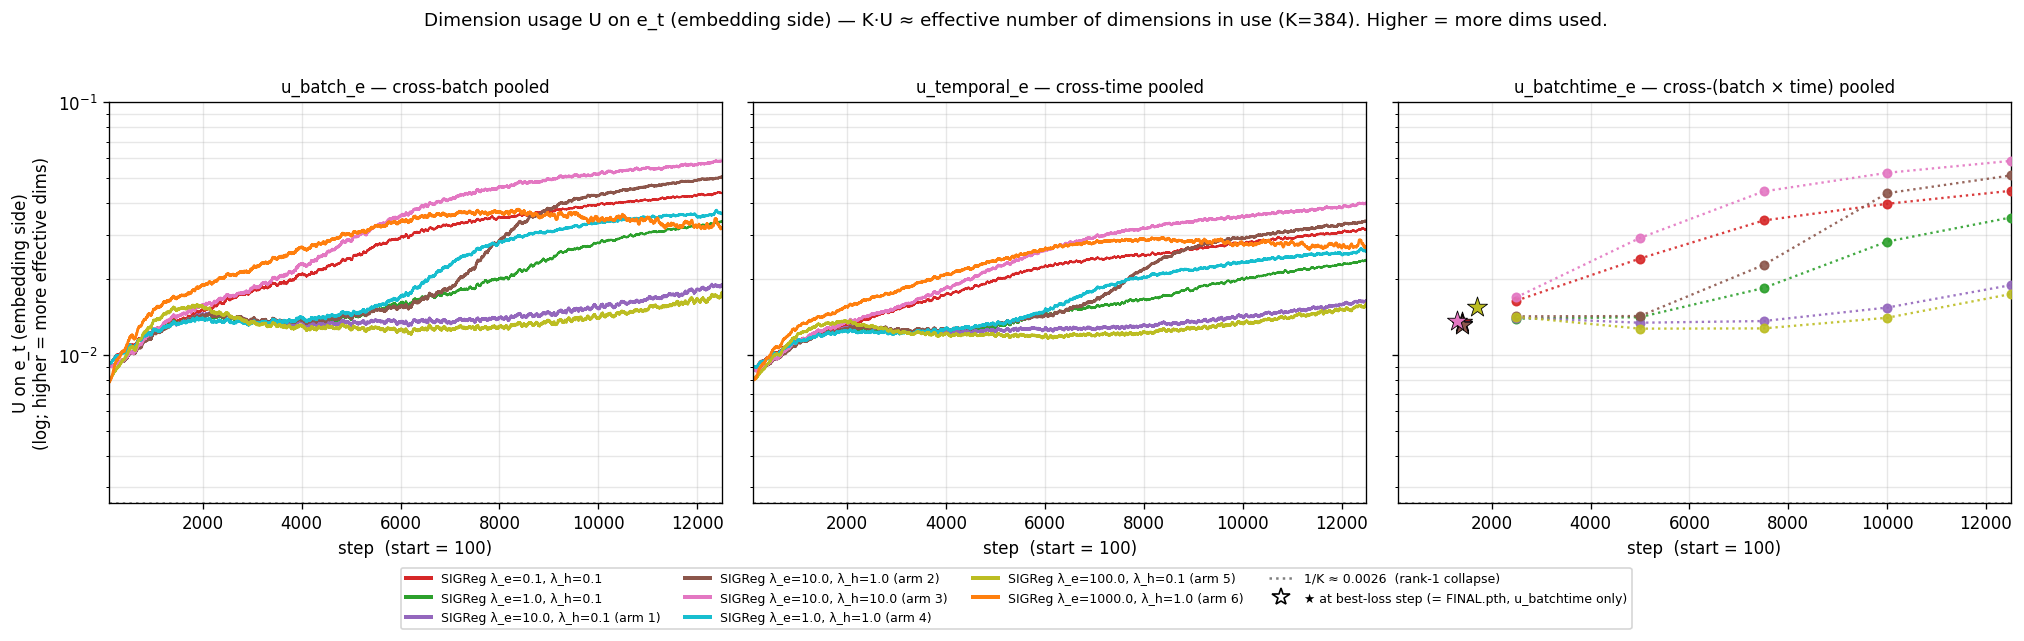
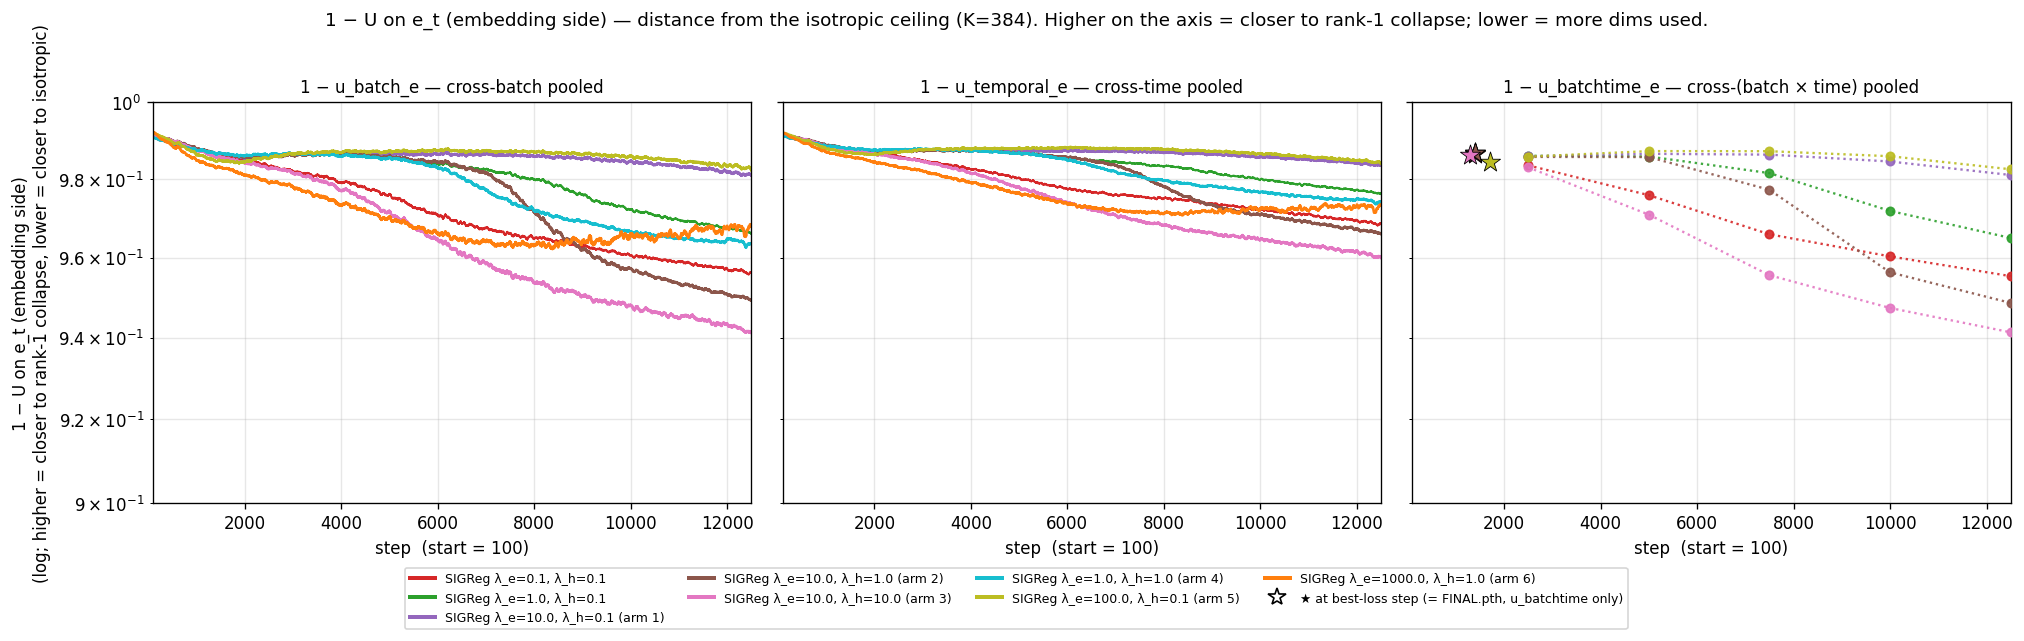
report(#363): dim_usage — plot (1 − U) on log y (all 6 panels)
y-axis now shows distance from the isotropic ceiling. HIGH on the axis =
closer to rank-1 collapse; LOW = closer to isotropic. Log scale reveals
late-training differences that saturate under linear U.

- build_plots.py: 1 − U for u_batch/u_temporal (in-training) and
  u_batchtime (retro), including ● checkpoint markers and ★ at best-loss
  step; drop the 1/K floor line (off the active range); ylim → e_t
  [0.9, 1.0], h_t [0.05, 1.0]; y-label, panel titles, and suptitle
  updated.
- sigreg_lambda_sweep.md: captions name (1 − U) and its inverted
  direction; §Vocabulary U entry notes the 1 − U log-y presentation in
  §Sphere coverage.

diff --git a/reports/2026-06-24_sigreg_lambda_sweep/scripts/build_plots.py b/reports/2026-06-24_sigreg_lambda_sweep/scripts/build_plots.py
@@ -352,20 +352,24 @@ def plot_dim_usage(arm_runs: Path, sigreg_runs: Path, sigreg10_runs: Path,
                    traj_csv: Path | None, out: Path, latent: str):
     """One figure per latent — 1 row × 3 cols, one panel per pooling axis
     (u_batch, u_temporal, u_batchtime). 8 trajectories per panel (6 sweep arms
-    + 2 prior B=512 anchors). U = participation-ratio fraction in [1/K, 1]
-    with K=384: U=1 ⇔ isotropic / all K dims used, U=1/K ⇔ rank-1 collapse
-    (one effective dim). Effective dims ≈ K · U.
+    + 2 prior B=512 anchors). Plotted as (1 − U) on a log y-axis: U saturates
+    near 1 (isotropic ceiling, hit by h_t) and near 1/K (rank-1 floor, hit by
+    e_t); plotting the complement on log reveals late-training differences
+    that the linear-U view compresses. Direction: HIGH on the plot = closer
+    to rank-1 collapse (BAD), LOW = closer to isotropic (GOOD, all K dims
+    used) — inverted from the U convention.
 
     `latent`: "e" (embedding side, `e_t`, suffix `_e`) or "h" (encoder side,
-    `h_t`, no suffix). y-axis: e_t ∈ [1/K, 0.1] (log); h_t ∈ [0.05, 1] (log).
-    u_batch / u_temporal panels: in-training per-step CSV (50-step rolling mean,
-    PLOT_START_STEP cuts the warm-up). u_batchtime panel: per-checkpoint
-    retroactive trajectory (dotted + ● every 2 500 steps) + ★ at the actual
-    best-loss step (= FINAL.pth). Arms 4 and 6 are absent from the u_batchtime
-    panel because they were trained after the trajectory snapshot."""
+    `h_t`, no suffix). y-axis: e_t (1 − U) ∈ [0.9, 1.0] (log); h_t (1 − U) ∈
+    [0.05, 1.0] (log). u_batch / u_temporal panels: in-training per-step CSV
+    (50-step rolling mean on U before mapping to 1 − U, PLOT_START_STEP cuts
+    the warm-up). u_batchtime panel: per-checkpoint retroactive trajectory
+    (dotted + ● every 2 500 steps) + ★ at the actual best-loss step
+    (= FINAL.pth). Arms 4 and 6 are absent from the u_batchtime panel because
+    they were trained after the trajectory snapshot."""
     K = 384
     if latent == "e":
-        suffix, ylim = "_e", (1.0 / K, 0.1)
+        suffix, ylim = "_e", (0.9, 1.0)
         latent_long = "e_t (embedding side)"
     elif latent == "h":
         suffix, ylim = "", (0.05, 1.0)
@@ -379,9 +383,9 @@ def plot_dim_usage(arm_runs: Path, sigreg_runs: Path, sigreg10_runs: Path,
         "sigreg10_enc3": sigreg10_runs / f"bb_{BASE_TAG}_emb10_losses.csv",
     }
     panels = [
-        ("u_batch",     f"u_batch{suffix} — cross-batch pooled"),
-        ("u_temporal",  f"u_temporal{suffix} — cross-time pooled"),
-        ("u_batchtime", f"u_batchtime{suffix} — cross-(batch × time) pooled"),
+        ("u_batch",     f"1 − u_batch{suffix} — cross-batch pooled"),
+        ("u_temporal",  f"1 − u_temporal{suffix} — cross-time pooled"),
+        ("u_batchtime", f"1 − u_batchtime{suffix} — cross-(batch × time) pooled"),
     ]
 
     for ax, (base_col, title) in zip(axes, panels):
@@ -394,7 +398,7 @@ def plot_dim_usage(arm_runs: Path, sigreg_runs: Path, sigreg10_runs: Path,
                 if col not in d.columns:
                     continue
                 ds = _smoothed(d, col, PLOT_START_STEP)
-                ax.plot(ds["step"], ds[f"{col}_sm"],
+                ax.plot(ds["step"], 1.0 - ds[f"{col}_sm"],
                         color=ARM_COLOR[arm], lw=1.2)
             for arm in SWEEP_ARMS:
                 p = arm_runs / f"bb_{BASE_TAG}_{arm}_losses.csv"
@@ -404,7 +408,7 @@ def plot_dim_usage(arm_runs: Path, sigreg_runs: Path, sigreg10_runs: Path,
                 if col not in d.columns:
                     continue
                 ds = _smoothed(d, col, PLOT_START_STEP)
-                ax.plot(ds["step"], ds[f"{col}_sm"],
+                ax.plot(ds["step"], 1.0 - ds[f"{col}_sm"],
                         color=ARM_COLOR[arm], lw=1.6)
         else:  # u_batchtime — retroactive per-checkpoint
             if traj_csv is not None and traj_csv.exists():
@@ -415,16 +419,15 @@ def plot_dim_usage(arm_runs: Path, sigreg_runs: Path, sigreg10_runs: Path,
                     t = traj_step[traj_step["arm"] == arm_key].sort_values("step")
                     if not len(t):
                         continue
-                    ax.plot(t["step"], t[col],
+                    ax.plot(t["step"], 1.0 - t[col],
                             color=ARM_COLOR[arm], lw=1.4, ls=":", marker="o",
                             markersize=5, alpha=0.9, zorder=3)
                     tb = traj_best[traj_best["arm"] == arm_key]
                     if len(tb):
                         br = tb.iloc[0]
-                        ax.scatter([int(br["step"])], [float(br[col])],
+                        ax.scatter([int(br["step"])], [1.0 - float(br[col])],
                                    color=ARM_COLOR[arm], marker="*", s=160,
                                    edgecolor="black", linewidths=0.5, zorder=5)
-        ax.axhline(1.0 / K, color="k", ls=":", alpha=0.5)
         ax.set_yscale("log")
         ax.set_ylim(*ylim)
         ax.set_xlim(PLOT_START_STEP, PLOT_END_STEP)
@@ -432,12 +435,13 @@ def plot_dim_usage(arm_runs: Path, sigreg_runs: Path, sigreg10_runs: Path,
         ax.set_title(title, fontsize=10)
         ax.grid(alpha=0.3, which="both")
 
-    axes[0].set_ylabel(f"U on {latent_long}\n(log; higher = more effective dims)")
+    axes[0].set_ylabel(
+        f"1 − U on {latent_long}\n"
+        f"(log; higher = closer to rank-1 collapse, lower = closer to isotropic)"
+    )
 
     arm_handles = [plt.Line2D([0], [0], color=ARM_COLOR[a], lw=2.4,
                               label=ARM_LABEL[a]) for a in PLOTTED_ARMS]
-    arm_handles.append(plt.Line2D([0], [0], color="k", ls=":", alpha=0.5,
-                                  label=f"1/K ≈ {1/K:.4f}  (rank-1 collapse)"))
     arm_handles.append(plt.Line2D([0], [0], color="black", marker="*",
                                   markersize=11, markerfacecolor="white",
                                   markeredgecolor="black", linestyle="",
@@ -445,8 +449,8 @@ def plot_dim_usage(arm_runs: Path, sigreg_runs: Path, sigreg10_runs: Path,
     fig.legend(handles=arm_handles, loc="lower center", ncol=4, fontsize=7.5,
                bbox_to_anchor=(0.5, -0.02), frameon=True)
     fig.suptitle(
-        f"Dimension usage U on {latent_long} — K·U ≈ effective number of "
-        f"dimensions in use (K=384). Higher = more dims used.",
+        f"1 − U on {latent_long} — distance from the isotropic ceiling (K=384). "
+        f"Higher on the axis = closer to rank-1 collapse; lower = more dims used.",
         fontsize=11,
     )
     fig.tight_layout(rect=(0, 0.08, 1, 0.96))

diff --git a/reports/2026-06-24_sigreg_lambda_sweep/sigreg_lambda_sweep.md b/reports/2026-06-24_sigreg_lambda_sweep/sigreg_lambda_sweep.md
@@ -19,9 +19,9 @@ Bold = column minimum within the B=512 sweep family; B=1024 anchor cells are nev
 
 ### Sphere coverage
 
-![Dimension usage `U` on `h_t` per pooling axis (`u_batch`, `u_temporal`, `u_batchtime`); log-y `[0.05, 1]`; `u_batchtime` panel: dotted line + `●` = retroactive per-checkpoint trajectory (arms 4 and 6 absent), `★` at the best-loss step (= `FINAL.pth`); higher `U` = more dims, `1/K ≈ 0.0026` floor off-axis below](plots/dim_usage_h.png)
+![(1 − U) on `h_t` per pooling axis (`u_batch`, `u_temporal`, `u_batchtime`); log-y `[0.05, 1]`; `u_batchtime` panel: dotted line + `●` = retroactive per-checkpoint trajectory (arms 4 and 6 absent), `★` at the best-loss step (= `FINAL.pth`); HIGH on the plot = closer to rank-1 collapse (BAD), LOW = closer to isotropic (GOOD, all K dims used) — inverted from the U convention](plots/dim_usage_h.png)
 
-![Dimension usage `U` on `e_t` per pooling axis (`u_batch_e`, `u_temporal_e`, `u_batchtime_e`); log-y `[1/K, 0.1]`; `u_batchtime_e` panel: dotted line + `●` = retroactive per-checkpoint trajectory (arms 4 and 6 absent), `★` at the best-loss step (= `FINAL.pth`); higher `U` = more dims, `1/K ≈ 0.0026` floor at y-axis bottom](plots/dim_usage_e.png)
+![(1 − U) on `e_t` per pooling axis (`u_batch_e`, `u_temporal_e`, `u_batchtime_e`); log-y `[0.9, 1.0]`; `u_batchtime_e` panel: dotted line + `●` = retroactive per-checkpoint trajectory (arms 4 and 6 absent), `★` at the best-loss step (= `FINAL.pth`); HIGH on the plot = closer to rank-1 collapse (BAD), LOW = closer to isotropic (GOOD, all K dims used) — inverted from the U convention](plots/dim_usage_e.png)
 
 ### Training loss
 
@@ -144,7 +144,7 @@ Anchor GM-Rel MASE values are transcribed from `reports/2026-06-22_lejepa_sigreg
 | `e_t` | GRU patch-embed output at position (batch, time, channel); dimension `K`. |
 | `h_t` | 3-layer transformer encoder output at the same position. |
 | **SIGReg** | LeJEPA spherical regulariser: Epps–Pulley statistic over `M`=1024 random 1-D projections of the pooled latent, against `N(0, 1/K)`. Two terms: `L_SIGReg(e_t)` weighted by `λ_e`, `L_SIGReg(h_t)` by `λ_h`. |
-| `U`, `u_*` | **dimension usage** of the latent: `U = 1 / (K · E[cos²(z_i, z_j)])`, clipped to `[1/K, 1]`. `1/K` = rank-1 collapse; **higher = more dims in use**; `K · U ≈` effective dims (`U = 0.79` at `K=384` ≈ 303). Pooling axes: cross-batch (`u_batch`), cross-time (`u_temporal`), cross-(batch × time) (`u_batchtime`, same `(B·T, K)` sample axis SIGReg uses), each on `h_t` (no suffix) and `e_t` (`_e` suffix). Math check: [`docs/u_metric_check.md`](../../docs/u_metric_check.md). |
+| `U`, `u_*` | **dimension usage** of the latent: `U = 1 / (K · E[cos²(z_i, z_j)])`, clipped to `[1/K, 1]`. `1/K` = rank-1 collapse; **higher = more dims in use**; `K · U ≈` effective dims (`U = 0.79` at `K=384` ≈ 303). Pooling axes: cross-batch (`u_batch`), cross-time (`u_temporal`), cross-(batch × time) (`u_batchtime`, same `(B·T, K)` sample axis SIGReg uses), each on `h_t` (no suffix) and `e_t` (`_e` suffix). Plotted as `1 − U` on log y-scale in §Sphere coverage — the log axis reveals late-training distances from the isotropic ceiling. Math check: [`docs/u_metric_check.md`](../../docs/u_metric_check.md). |
 | **GM-Rel MASE** | GIFT-Eval full-97 aggregate: geometric mean over 97 configs of (model MASE ÷ seasonal-naive MASE). Lower = better; 1.0 = seasonal-naive parity. |
 | **best-ckpt / last-ckpt** | `best` = backbone at lowest-train-loss step; `last` = backbone at step 12 500. |
 | **paired bootstrap** | resample 97 per-config rel-MASE values with replacement (B=10 000 draws, seed 20260624), statistic `mean(log(rel_arm) − log(rel_baseline))`, 2.5/97.5 quantiles, back to GM scale via `GM_baseline · (exp(quantile) − 1)`. |
